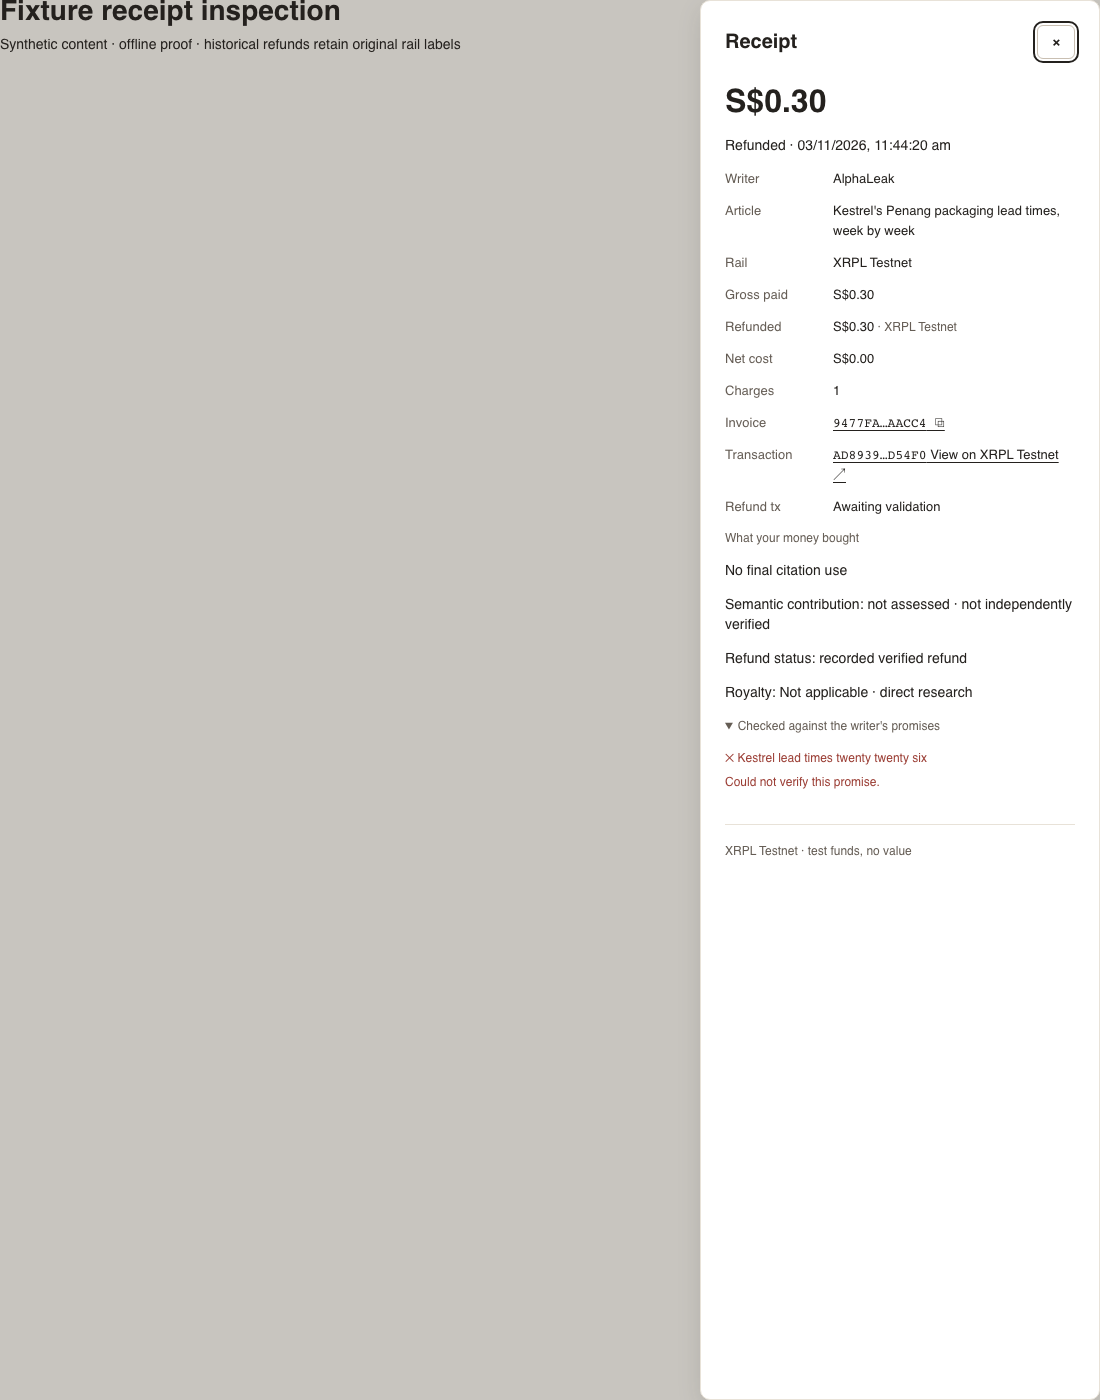
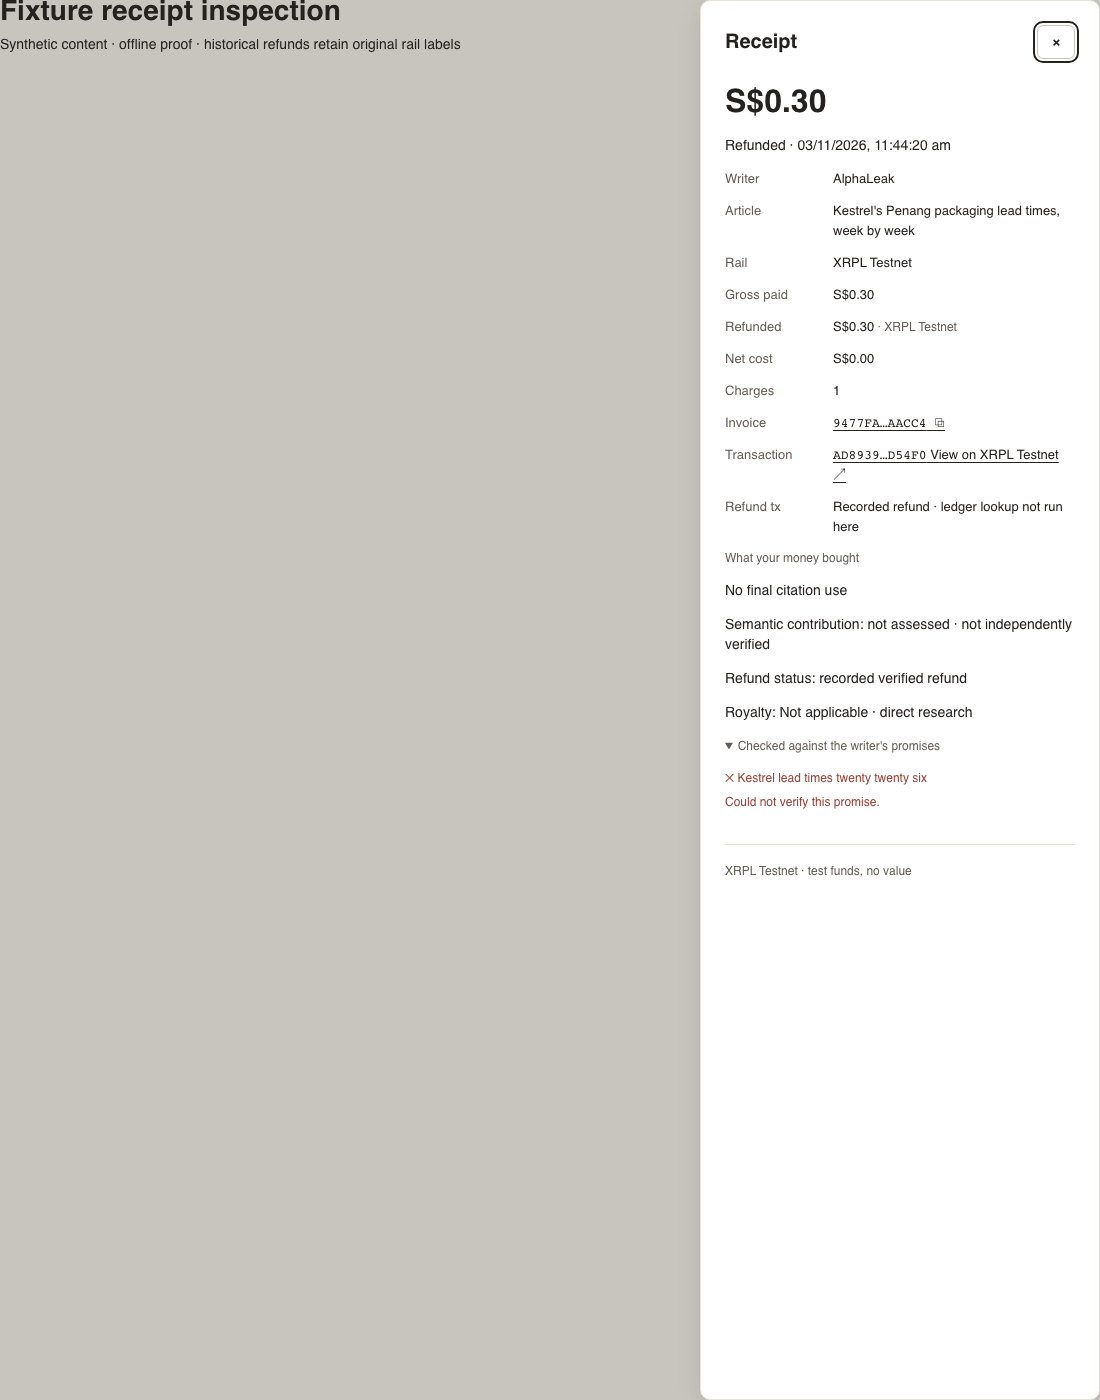
docs(receipts): record Lane G acceptance and final receipt screenshots

Changed region(s): [[0.6491, 0.3686, 0.9891, 0.6143], [0.7727, 0.3379, 0.9273, 0.3686]]

diff --git a/tests/contribution-ui.test.tsx b/tests/contribution-ui.test.tsx
@@ -1,0 +1,49 @@
+// @vitest-environment jsdom
+import { afterEach, beforeEach, expect, it, vi } from 'vitest'
+import { cleanup, render, screen, waitFor } from '@testing-library/react'
+import { readFileSync } from 'node:fs'
+import ReceiptSheet from '../src/components/ReceiptSheet'
+import { exampleRun } from '../shared/contracts/examples'
+import { ReceiptBundleSchema } from '../shared/contracts/receipts'
+const b = ReceiptBundleSchema.parse(JSON.parse(readFileSync('docs/evidence/round2-g/useful.receipts.json','utf8')))
+const run = {...exampleRun, runId:b.runId,contents:b.sources,candidates:b.candidates,answers:b.answers,intents:b.intents,grants:b.grants,receipts:b.receipts}
+beforeEach(() => {
+  HTMLDialogElement.prototype.showModal = function(){this.open=true}
+  HTMLDialogElement.prototype.close = function(){this.open=false}
+})
+afterEach(() => { cleanup(); vi.unstubAllGlobals() })
+it.each([
+  [[], 'Not applicable · direct research'],
+  [[{kind:'inbound'}], 'Pending or unresolved; no payout receipt'],
+  [[{kind:'royalty',status:'SIGNED_UNCONFIRMED',amountDrops:'5000',policyVersion:'hire-v1'}], 'SIGNED_UNCONFIRMED · 5000 drops · hire-v1'],
+  [[{kind:'royalty',status:'CONFIRMED',amountDrops:'5000',policyVersion:'hire-v1'}], 'CONFIRMED · 5000 drops · hire-v1'],
+])('displays existing royalty status without promoting pending or inventing a payout (%j)', async (payments, text) => {
+  vi.stubGlobal('fetch',vi.fn().mockResolvedValue({ok:true,json:async()=>({payments})}))
+  render(<ReceiptSheet run={run} receipt={b.receipts[0]} onClose={()=>{}}/>)
+  await waitFor(()=>expect(screen.getByText(`Royalty: ${text}`,{exact:false})).toBeTruthy())
+  expect(screen.getByText('Cited in the final answer')).toBeTruthy()
+  expect(screen.getByText(/Semantic contribution: not assessed/)).toBeTruthy()
+})
+it('keeps an unavailable royalty export unassessed', async () => {
+  vi.stubGlobal('fetch',vi.fn().mockRejectedValue(new Error('offline')))
+  render(<ReceiptSheet run={run} receipt={b.receipts[0]} onClose={()=>{}}/>)
+  await waitFor(()=>expect(fetch).toHaveBeenCalled())
+  expect(screen.getByText(/Royalty: Not assessed/)).toBeTruthy()
+})
+it('renders a recorded refund separately from ledger validation and never shows quarantined passage use', async () => {
+  const rb = ReceiptBundleSchema.parse(JSON.parse(readFileSync('docs/evidence/round2-g/refunded.receipts.json','utf8')))
+  const receipt = rb.receipts.find(r => rb.intents.some(i => i.intentId === r.intentId && i.refund))!
+  vi.stubGlobal('fetch',vi.fn().mockResolvedValue({ok:false}))
+  render(<ReceiptSheet run={{...run,labels:{...run.labels,settlement:receipt.label},intents:rb.intents,contents:rb.sources,candidates:rb.candidates,answers:rb.answers,grants:rb.grants,receipts:rb.receipts}} receipt={receipt} onClose={()=>{}}/>)
+  expect(screen.getByText('Recorded refund · ledger lookup not run here')).toBeTruthy()
+  expect(screen.getByText('No final citation use')).toBeTruthy()
+  expect(screen.getByText('Refund status: recorded verified refund')).toBeTruthy()
+  expect(screen.queryByText('Verify this link')).toBeNull()
+})
+it('preserves removed claim disclosures rather than presenting them as final use', () => {
+  const rb = ReceiptBundleSchema.parse(JSON.parse(readFileSync('docs/evidence/round2-g/redundant.receipts.json','utf8')))
+  vi.stubGlobal('fetch',vi.fn().mockResolvedValue({ok:true,json:async()=>({payments:[]})}))
+  render(<ReceiptSheet run={{...run,answers:rb.answers}} receipt={rb.receipts[0]} onClose={()=>{}}/>)
+  expect(screen.getByText('No final citation use')).toBeTruthy()
+  expect(screen.getAllByText(/removed · answer v1/).length).toBe(4)
+})

diff --git a/src/components/ReceiptSheet.tsx b/src/components/ReceiptSheet.tsx
@@ -30,7 +30,7 @@ export default function ReceiptSheet({ run, receipt, onClose }: { run: RunSnapsh
     <dl><dt>Writer</dt><dd>{source?.publisher ?? '—'}</dd>{source?.source && <><dt>Origin</dt><dd>{source.source.origin} · unverified writer</dd></>}<dt>Article</dt><dd>{source?.title ?? receipt.resourceId}</dd><dt>Rail</dt><dd>{testnet ? settlementAssetLabel(receipt.xrpl?.asset) : 'simulated'}</dd><dt>Gross paid</dt><dd>{money(receipt.amountMinor)}</dd>{refund > 0 && <><dt>Refunded</dt><dd>{money(refund)}<span className="ra-refund-rail"> · {testnet ? settlementAssetLabel(receipt.xrpl?.asset) : 'simulated'}</span></dd></>}<dt>Net cost</dt><dd>{money(receipt.amountMinor - refund)}</dd><dt>Charges</dt><dd>{run.receipts.filter(r => r.intentId === receipt.intentId).length}</dd>
     {invoice && <><dt>Invoice</dt><dd><button className="ra-link mono" title={invoice} onClick={() => void navigator.clipboard.writeText(invoice)}>{shortHash(invoice)} ⧉</button></dd></>}
     <dt>Transaction</dt><dd>{testnet && tx?.explorerUrl.startsWith('https://testnet.xrpl.org/') ? <a href={tx.explorerUrl} target="_blank" rel="noreferrer"><span className="mono">{shortHash(tx.txHash)}</span> View on XRPL Testnet ↗</a> : testnet ? 'Awaiting validation' : 'None (simulated)'}</dd>
-    {refund > 0 && <><dt>Refund tx</dt><dd>{testnet && typeof refundUrl === 'string' && refundUrl.startsWith('https://testnet.xrpl.org/') ? <a href={refundUrl} target="_blank" rel="noreferrer"><span className="mono">{shortHash(intent?.refund?.txHash ?? '')}</span> View on XRPL Testnet ↗</a> : testnet ? 'Awaiting validation' : 'None (simulated)'}</dd></>}</dl>
+    {refund > 0 && <><dt>Refund tx</dt><dd>{testnet && typeof refundUrl === 'string' && refundUrl.startsWith('https://testnet.xrpl.org/') ? <a href={refundUrl} target="_blank" rel="noreferrer"><span className="mono">{shortHash(intent?.refund?.txHash ?? '')}</span> View on XRPL Testnet ↗</a> : testnet ? 'Recorded refund · ledger lookup not run here' : 'None (simulated)'}</dd></>}</dl>
     <section aria-label="What your money bought"><h3>What your money bought</h3>
       <p>{use?.structuralUse === 'cited' ? 'Cited in the final answer' : 'No final citation use'}</p>
       <p>Semantic contribution: not assessed · not independently verified</p>

diff --git a/scripts/contribution-screenshots.ts b/scripts/contribution-screenshots.ts
@@ -15,7 +15,7 @@ try {
   await page.goto(`http://127.0.0.1:${(vite.httpServer!.address() as {port:number}).port}/scratch/lane-g-proof.html#${name}`)
   await page.reload();await page.getByRole('dialog',{name:'Receipt',exact:true}).waitFor()
   const detail=page.locator('section[aria-label="What your money bought"] details').first()
-  if(await detail.count()) await detail.locator(':scope > summary').click()
+  if(await detail.count()) { await detail.locator(':scope > summary').focus(); await page.keyboard.press('Enter'); if(!await detail.getAttribute('open').then(v => v !== null)) throw new Error('Keyboard disclosure failed') }
   const violations=(await new AxeBuilder({page}).analyze()).violations.filter(v=>['serious','critical'].includes(v.impact??''))
   if(violations.length) throw new Error(JSON.stringify(violations))
   await page.screenshot({path:`docs/evidence/round2-g/${name}.png`,fullPage:true})

diff --git a/sdk/verify.ts b/sdk/verify.ts
@@ -118,7 +118,7 @@ export async function verifyAnswer(input: unknown, options: VerifyOptions = {}):
 }
 
 export function verificationText(result: VerificationResult): string {
-  const groups = ['manifest ', 'passages ', 'citation ', 'grant ', 'receipt ', 'refund ', 'audit chain', 'testnet ']
+  const groups = ['contributions', 'manifest ', 'passages ', 'citation ', 'grant ', 'receipt ', 'refund ', 'audit chain', 'testnet ']
   const lines = [`VERIFY ${result.runId ?? 'report'}`]
   for (const prefix of groups) {
     const checks = result.checks.filter(c => c.check.startsWith(prefix))

diff --git a/docs/SFF-PUSH.md b/docs/SFF-PUSH.md
@@ -10,6 +10,7 @@ something significant: a feature, a metric move, a finished deliverable. Don't
 add an entry for every small fix. One line per item, newest day first; link the
 PR or issue.
 
+- 4 Nov: Lane G explains exact paid claim/passage use in receipt v3, preserves v1/v2 offline verification and rejects ten tamper classes; 30 fixture links, semantic assessment explicitly unavailable, unchanged scorecard arithmetic and accessible receipt screenshots. [Evidence](evidence/round2-g/README.md).
 - 4 Nov: Lane C1 adds guarded one-key compatible research/UNCALIBRATED advisory decisions, local bearer connection testing, cooperative Stop and default-four active work (100 asks: 4 admitted/96 overloaded); HTTP/TS/Python/MCP synthetic citation matrix passes. [Engine evidence](evidence/round2-c1/README.md).
 - 4 Nov: Lane C2 keeps Mac Settings/recovery available before credentials and engine boot, preserves durable wallet pause, adds presence-only BYOK controls and explicit unsigned builds; 13 native fixture recovery cases and arm64 artifact hash in [C2 evidence](evidence/round2-c2/README.md).
 - 4 Nov: Lane A projects retained history (3,000 × 60: 34.4 s → 313 ms hydration, 5.3–10.8 ms selection/reconcile), bounds streams, adds safe client errors and durable late-refund recovery; engine-wide cap and cooperative Stop remain deferred. [Local synthetic evidence](evidence/round2-a/README.md).

diff --git a/docs/evidence/round2-g/README.md b/docs/evidence/round2-g/README.md
@@ -61,3 +61,13 @@ text: the existing audit does not commit answer bodies. Structural recomputation
 checks consistency against the exported answers; it cannot establish that an
 operator did not rewrite both answers and contribution metadata, or certify truth.
 No hard gate, threshold, benchmark, price or royalty policy was loosened.
+
+Local validation: 937 TypeScript tests, 80 targeted tests, 18 Python tests,
+four requested Playwright tests, all three receipt axe checks and 20 chaos
+iterations passed (zero invariant violations, double charges or stuck reservations).
+Existing lint warnings were unchanged. The final commit hook reruns check:fast;
+hosted CI status and exact PR head are reported in the PR handoff.
+
+Node 22 coverage component ratchets and the clean SDK ESM/declaration package
+consumer pass with unchanged floors. Receipt state tests include unconfirmed and
+confirmed royalty rows, unavailable exports, recorded refunds and removed claims.

diff --git a/docs/BUILDER-FEEDBACK.md b/docs/BUILDER-FEEDBACK.md
@@ -637,3 +637,13 @@ from signed reservations. Evidence: `tests/purchase.test.ts`.
 Exact source matching also prevents collided local IDs from mislabelling report
 citations or measuring one writer’s calibration against another’s delivery;
 offline regressions cover both (`tests/report.test.ts`, `tests/reputation.test.ts`).
+
+### 2026-11-04 — Receipt amount animation during axe inspection
+
+Observed local tooling friction, Lane G on Lane F c0450fa6. An axe inspection
+during the receipt amount fade-in measured transient insufficient contrast.
+Workaround/fix: remove receipt entrance/amount animation; static money and refund
+states remain readable. Evidence: `docs/evidence/round2-g/accessibility.json` and
+`scripts/contribution-screenshots.ts`. Suggested fix: inspect static final state
+and avoid ornamental money transitions. Severity: low tooling/UX; mainnet impact:
+none observed, no ledger or provider calls in this inspection.
